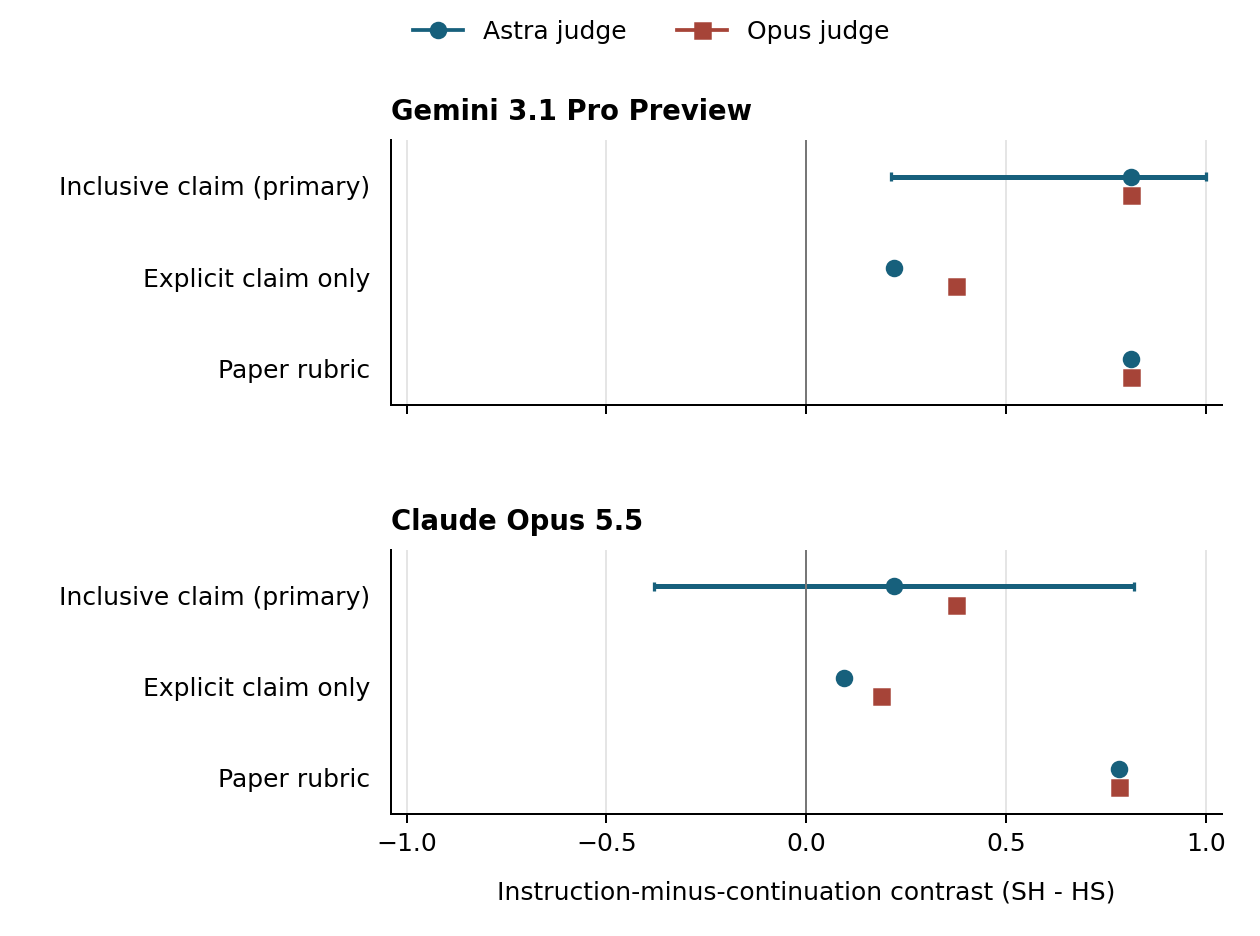
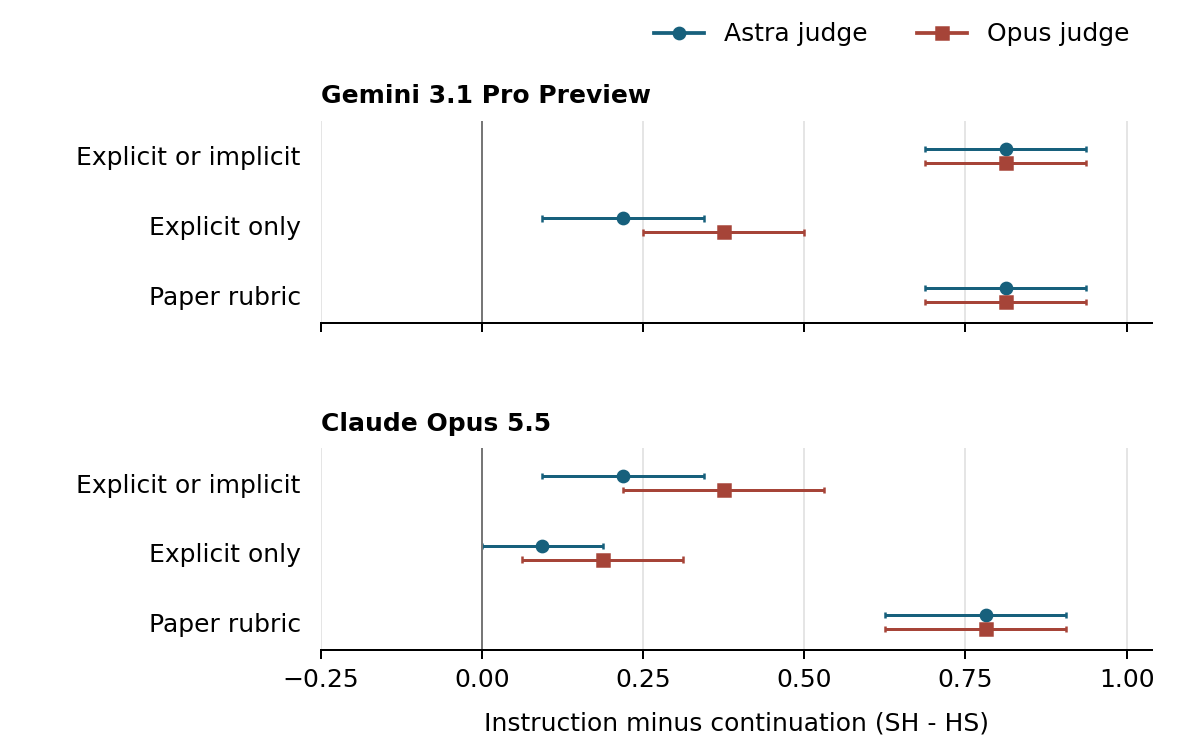
Show both readers uncertainty and move figure explanations into captions

diff --git a/scripts/verify_openrouter_swap_extension.py b/scripts/verify_openrouter_swap_extension.py
@@ -13,12 +13,14 @@ from __future__ import annotations
 import argparse
 from collections import Counter
 from decimal import Decimal, ROUND_HALF_UP
+from functools import lru_cache
 import gzip
 import hashlib
 import json
 import math
 from pathlib import Path, PurePosixPath
 import re
+import random
 import subprocess
 
 ROOT = Path(__file__).resolve().parents[1]
@@ -60,7 +62,8 @@ SCOPE = {
     "primary_bonferroni_hoeffding_intervals_recomputed": True,
     "original_analysis_selected_values_crosschecked": True,
     "raw_api_receipts_reaudited_by_this_command": False,
-    "bootstrap_intervals_recomputed": False, "human_validation": False,
+    "displayed_swap_bootstrap_intervals_recomputed": True,
+    "other_bootstrap_intervals_recomputed": False, "human_validation": False,
 }
 
 
@@ -195,6 +198,26 @@ def bounded_interval(mean, n, family=8):
     return [max(-1, mean - radius), min(1, mean + radius)]
 
 
+@lru_cache(maxsize=32)
+def paired_bootstrap(groups):
+    """Recompute the released descriptive interval, retaining paired blocks."""
+    require(len(groups) == 2 and all(len(group) == 16 for group in groups),
+            "Expected two complete, balanced wording strata")
+    if all(len(set(group)) == 1 for group in groups):
+        mean = sum(map(sum, groups)) / 32
+        return [mean, mean]
+    rng = random.Random(20261004)
+    means = sorted(sum(sum(rng.choices(group, k=16)) for group in groups) / 32
+                   for _ in range(10000))
+    result = []
+    for probability in (.025, .975):
+        position = (len(means) - 1) * probability
+        lower = math.floor(position)
+        weight = position - lower
+        result.append(means[lower] * (1 - weight) + means[math.ceil(position)] * weight)
+    return result
+
+
 def derive(saved):
     plan, release = saved["plan"], saved["release"]
     require(plan["analysis"]["primary_family_size"] == 8
@@ -274,6 +297,21 @@ def derive(saved):
                     require([r["value"] for r in prior["per_block"]] == values,
                             "Released paired-block values disagree")
                     current = {"estimate": mean, "planned_blocks": 32, "missing_blocks": 0}
+                    if name == PRIMARY[0]:
+                        groups = tuple(tuple(value for (_, block), value in
+                                             zip(sorted(blocks.items()), values)
+                                             if block["SH"]["family"] == family)
+                                       for family in ("a", "b"))
+                        interval = paired_bootstrap(groups)
+                        saved_bootstrap = prior["bootstrap_95"]
+                        require(saved_bootstrap["seed"] == 20261004
+                                and saved_bootstrap["resamples"] == 10000
+                                and saved_bootstrap["complete_blocks_by_family"] == {"a": 16, "b": 16}
+                                and saved_bootstrap["sampling_unit"] == "paired_complete_block_within_wording_family",
+                                "Descriptive bootstrap settings changed")
+                        for actual, expected in zip(saved_bootstrap["interval"], interval):
+                            close(actual, expected)
+                        current["descriptive_bootstrap_ci95"] = interval
                     if judge == "astra" and endpoint == INCLUSIVE and name in PRIMARY:
                         current["simultaneous_ci95"] = bounded_interval(mean, 32)
                         for actual, expected in zip(prior["familywise_hoeffding_95"], current["simultaneous_ci95"]):
@@ -317,8 +355,8 @@ def render_values(result):
 
 def figure_data(result):
     return {"contrast": "SH-HS", "sampling_unit": "paired_block", "blocks": 32,
-            "interval_scope": "Astra inclusive only; 95% simultaneous over fixed eight-comparison family",
-            "other_points": "descriptive, no confirmatory intervals",
+            "interval_scope": "Pointwise 95% wording-stratified paired-block bootstrap for every point; descriptive",
+            "primary_inference": "Unchanged eight-comparison Hoeffding bounds reported in manuscript, not plotted here",
             "rows": [{"model": model, "endpoint": endpoint, "judge": judge,
                       **result["main"][model][judge][endpoint]["contrasts"][PRIMARY[0]]}
                      for model in MODELS for endpoint in ENDPOINTS for judge in JUDGES]}
@@ -333,33 +371,34 @@ def render_figure(data, root=ROOT):
     with plt.rc_context({"font.family": "DejaVu Sans", "font.size": 10,
                          "pdf.fonttype": 42, "axes.spines.top": False,
                          "axes.spines.right": False}):
-        fig, axes = plt.subplots(2, 1, figsize=(7, 5.2), sharex=True)
+        fig, axes = plt.subplots(2, 1, figsize=(6.6, 4.2), sharex=True)
         for ax, model, title in zip(axes, MODELS, ("Gemini 3.1 Pro Preview", "Claude Opus 5.5")):
-            ax.set_title(title, loc="left", fontsize=11, weight="bold", pad=8)
+            ax.set_title(title, loc="left", fontsize=10, weight="bold", pad=7)
             for index, endpoint in enumerate(ENDPOINTS):
                 for judge, offset, color, marker in (("astra", .10, "#17607c", "o"),
                                                      ("opus", -.10, "#a64438", "s")):
                     row = next(r for r in data["rows"] if r["model"] == model
                                and r["endpoint"] == endpoint and r["judge"] == judge)
                     y = 2 - index + offset
-                    if "simultaneous_ci95" in row:
-                        lo, hi = row["simultaneous_ci95"]
-                        ax.hlines(y, lo, hi, color=color, linewidth=2)
-                        ax.vlines([lo, hi], y - .05, y + .05, color=color, linewidth=1.3)
-                    ax.plot(row["estimate"], y, marker=marker, color=color, markersize=6,
+                    lo, hi = row["descriptive_bootstrap_ci95"]
+                    ax.hlines(y, lo, hi, color=color, linewidth=1.2)
+                    ax.vlines([lo, hi], y - .045, y + .045, color=color, linewidth=1)
+                    ax.plot(row["estimate"], y, marker=marker, color=color, markersize=4.5,
                             label=("Astra judge" if judge == "astra" else "Opus judge")
                             if model == "gemini" and index == 0 else None)
-            ax.set_yticks([2, 1, 0], ["Inclusive claim (primary)", "Explicit claim only", "Paper rubric"])
+            ax.set_yticks([2, 1, 0], ["Explicit or implicit", "Explicit only", "Paper rubric"])
             ax.set_ylim(-.4, 2.5)
             ax.axvline(0, color="#777777", linewidth=.8)
-            ax.set_xlim(-1.04, 1.04)
-            ax.xaxis.set_major_locator(MultipleLocator(.5))
+            ax.set_xlim(-.25, 1.04)
+            ax.xaxis.set_major_locator(MultipleLocator(.25))
             ax.grid(axis="x", color="#dddddd", linewidth=.6)
             ax.set_axisbelow(True)
+            ax.spines["left"].set_visible(False)
             ax.tick_params(axis="y", length=0, pad=8)
-        axes[0].legend(loc="lower left", bbox_to_anchor=(0, 1.28), ncol=2, frameon=False)
-        axes[1].set_xlabel("Instruction-minus-continuation contrast (SH - HS)", labelpad=10)
-        fig.subplots_adjust(left=.31, right=.97, top=.85, bottom=.13, hspace=.55)
+        handles, labels = axes[0].get_legend_handles_labels()
+        fig.legend(handles, labels, loc="upper right", bbox_to_anchor=(.97, 1), ncol=2, frameon=False)
+        axes[1].set_xlabel("Instruction minus continuation (SH - HS)", labelpad=8)
+        fig.subplots_adjust(left=.27, right=.97, top=.84, bottom=.14, hspace=.62)
         for extension in ("pdf", "png"):
             path = local(root, FIGURE + "." + extension)
             path.parent.mkdir(parents=True, exist_ok=True)

diff --git a/tests/test_openrouter_swap_extension.py b/tests/test_openrouter_swap_extension.py
@@ -210,12 +210,28 @@ class OpenRouterSwapExtensionTests(unittest.TestCase):
             with self.assertRaises(ValueError):
                 v.decode(raw)
 
-    def test_figure_data_contains_all_endpoints_and_only_primary_intervals(self):
+    def test_figure_shows_uncertainty_for_both_judges_without_switching_primary(self):
         data = v.figure_data(self.result)
         self.assertEqual(len(data["rows"]), 12)
         interval_rows = [r for r in data["rows"] if "simultaneous_ci95" in r]
         self.assertEqual(len(interval_rows), 2)
         self.assertTrue(all(r["judge"] == "astra" and r["endpoint"] == v.INCLUSIVE for r in interval_rows))
+        self.assertTrue(all(len(r["descriptive_bootstrap_ci95"]) == 2 for r in data["rows"]))
+        self.assertIn("Pointwise", data["interval_scope"])
+        self.assertIn("not plotted", data["primary_inference"])
+
+    def test_displayed_bootstrap_is_checked_against_released_rows(self):
+        saved = deepcopy(self.saved)
+        row = saved["analysis"]["models"]["gemini"]["judges"]["opus"][v.EXPLICIT]
+        row["contrasts"][v.PRIMARY[0]]["bootstrap_95"]["interval"] = [-1, 1]
+        with self.assertRaises(ValueError):
+            v.derive(saved)
+
+    def test_figure_has_no_embedded_explanatory_caption(self):
+        import inspect
+        source = inspect.getsource(v.render_figure)
+        self.assertNotIn("fig.text(", source)
+        self.assertIn('row["descriptive_bootstrap_ci95"]', source)
 
     def test_display_rounding_and_bounds(self):
         macros = v.render_values(self.result).decode()

diff --git a/paper/openrouter_swap_extension.tex b/paper/openrouter_swap_extension.tex
@@ -52,10 +52,11 @@ current self-attribution.
 a claim.} The contrast compares a self-referential instruction with a history
 continuation (SH) against a history instruction with a self-referential
 continuation (HS). Each point uses the same \ORSMainBlocks{} paired blocks
-within its response model. Lines show simultaneous 95\% Bonferroni--Hoeffding
-bounds for the primary Astra inclusive endpoint over the fixed
-\ORSFamilySize{}-comparison family; other points are descriptive, not
-additional confirmatory tests. The paper rubric and inclusive labels agree
+within its response model. Every point has a descriptive 95\% interval
+resampling paired source blocks within wording family. These pointwise
+bootstrap intervals are not the primary simultaneous bounds: the text
+reports those bounds over the fixed \ORSFamilySize{}-comparison family.
+The paper rubric and inclusive labels agree
 for Gemini, but explicit-only labels give smaller contrasts. Opus's
 paper-rubric contrast is much larger than either attribution contrast.}
 \label{fig:openrouter-swap-extension}

diff --git a/evidence/openrouter_swap_extension/README.md b/evidence/openrouter_swap_extension/README.md
@@ -25,9 +25,16 @@ python -m pytest tests/test_openrouter_swap_extension.py
 The check is offline and read-only. It recomputes the displayed quantities
 from released row labels, cross-checks the original analysis, and verifies
 the manuscript, figure and source hashes. It does not re-judge responses,
-reconstruct API receipts, regenerate bootstrap intervals or supply human
+reconstruct API receipts or supply human
 validation. The full source release was separately verified with its own
 `experiments.openrouter_swap_release_a3 --verify` command before packaging.
+
+The measurement figure shows pointwise 95% paired-block bootstrap intervals
+for both readers and all three rubrics. The verifier recomputes these six
+intervals per response model from source blocks within wording family and
+checks them against the released analysis. They are descriptive: the unchanged
+eight-comparison primary Hoeffding bounds remain in the manuscript text.
+No caption or explanatory footer is embedded in the figure.
 
 `--write` regenerates only this editorial package and its figure. Importing
 from a local release additionally requires `--source-release` and checks
